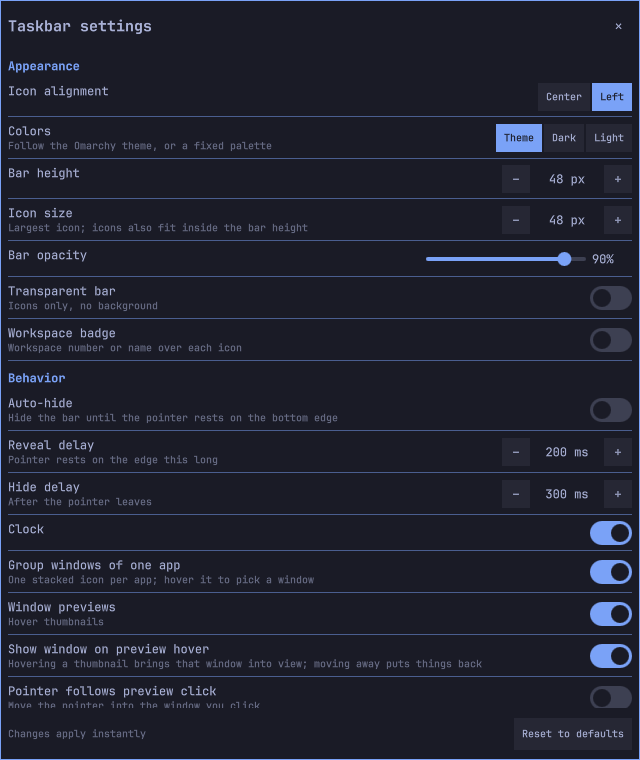
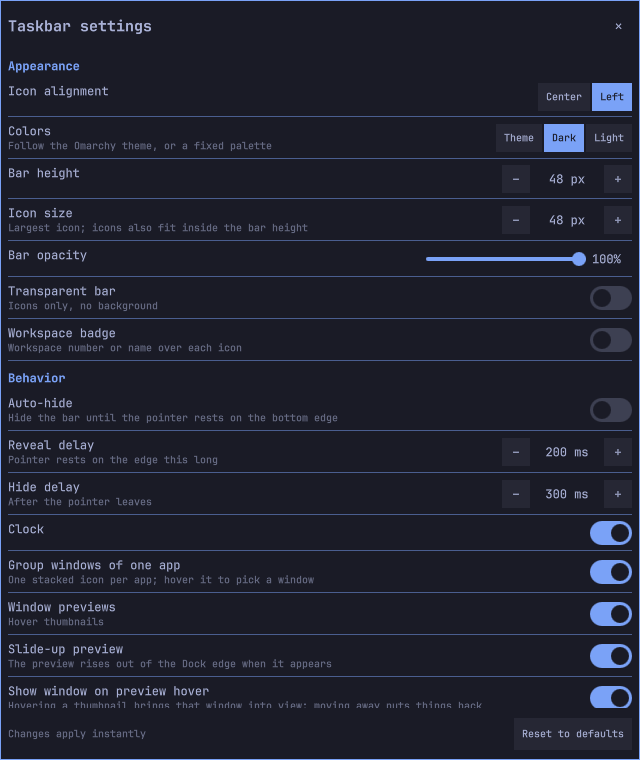
Slide the hover preview up out of the Dock edge, and drop it before a right-click menu
Right-clicking an icon dismisses its hover preview first. The preview rises
out of the Dock edge when it appears (previewSlide, on by default), and moving
to another icon closes the first preview before the next one slides up.

diff --git a/Service.qml b/Service.qml
@@ -1875,6 +1875,8 @@ Item {
                 onClicked: function (mouse) {
                   if (dockItem.wasDragged) return
                   if (mouse.button === Qt.RightButton) {
+                    // Drop any hover preview first, so the menu never shows over it.
+                    previewState.dismiss()
                     contextMenu.anchorItem = dockItem
                     contextMenu.menuItem = dockItem.modelData
                     contextMenu.visible = true
@@ -2084,8 +2086,8 @@ Item {
         onTriggered: previewState.apply(DockInteraction.previewLeaveFired(previewState.model))
       }
 
-      // Moving from one Item to its neighbour while a preview is up swaps
-      // the shown Window in place; the popup has to be re-anchored to follow.
+      // Keep the popup anchored if the hovered Item's position changes while
+      // it is up (e.g. the row reflows).
       Connections {
         target: previewState
         function onAnchorXChanged() {
@@ -2195,6 +2197,9 @@ Item {
 
         onVisibleChanged: {
           revealState.set("preview", previewPopup.visible)
+          previewSlideAnim.stop()
+          if (visible && root.taskbar.previewSlide) previewSlideAnim.start()
+          else slide = 1
           if (!previewPopup.visible) {
             previewPopup.peekTarget = null
             peekTimer.stop()
@@ -2220,145 +2225,166 @@ Item {
           }
         }
 
-        Rectangle {
+        // 0 → 1 as the popup slides up into place; snaps to 1 when off.
+        property real slide: 1
+        NumberAnimation {
+          id: previewSlideAnim
+          target: previewPopup
+          property: "slide"
+          from: 0
+          to: 1
+          duration: 220
+          easing.type: Easing.OutCubic
+        }
+
+        // Clips the card to the popup's own box, so it rises out from the
+        // Dock's edge instead of fading in mid-air.
+        Item {
           anchors.fill: parent
-          radius: Style.cornerRadius
-          color: root.colPopupBackground
-          border.width: Style.normalBorderWidth
-          border.color: root.colPopupBorder
+          clip: true
 
-          HoverHandler {
-            onHoveredChanged: previewState.popupHover(hovered)
-          }
+          Rectangle {
+            width: parent.width
+            height: parent.height
+            radius: Style.cornerRadius
+            color: root.colPopupBackground
+            border.width: Style.normalBorderWidth
+            border.color: root.colPopupBorder
+            y: (1 - previewPopup.slide) * height
 
-          Row {
-            id: previewRow
-            anchors.fill: parent
-            anchors.margins: Style.spacing.sm
-            spacing: Style.spacing.xs
+            HoverHandler {
+              onHoveredChanged: previewState.popupHover(hovered)
+            }
 
-            Repeater {
-              model: previewPopup.windowIds
+            Row {
+              id: previewRow
+              anchors.fill: parent
+              anchors.margins: Style.spacing.sm
+              spacing: Style.spacing.xs
 
-              // One Window's cell: a tinted background under the pointer, so
-              // it is clear which thumbnail a click will pick.
-              Item {
-                id: cell
-                required property var modelData
-                readonly property var win: previewPopup.windowFor(cell.modelData)
-                readonly property var toplevel: dockState.toplevelByAddress[cell.modelData] || null
-                readonly property int pad: Style.spacing.xs
-                implicitWidth: cellColumn.implicitWidth + pad * 2
-                implicitHeight: cellColumn.implicitHeight + pad * 2
+              Repeater {
+                model: previewPopup.windowIds
 
-                Rectangle {
-                  anchors.fill: parent
-                  radius: Style.cornerRadius
-                  color: cellHover.hovered ? Style.selectedFill : "transparent"
-                }
-
-                HoverHandler {
-                  id: cellHover
-                  onHoveredChanged: previewPopup.peekHover(cell.win, hovered)
-                }
-
-              Column {
-                id: cellColumn
-                x: cell.pad
-                y: cell.pad
-                spacing: Style.spacing.xs
-
-                Row {
-                  width: previewPopup.thumbWidth
-                  spacing: Style.spacing.xs
-
-                  Text {
-                    width: parent.width - closeButton.width - parent.spacing
-                    anchors.verticalCenter: parent.verticalCenter
-                    elide: Text.ElideRight
-                    color: previewPopup.textColor
-                    font.family: Style.font.family
-                    font.pixelSize: Style.font.caption
-                    text: dockState.titles[cell.modelData] || cell.win.title || cell.win.class || ""
-                  }
+                // One Window's cell: a tinted background under the pointer, so
+                // it is clear which thumbnail a click will pick.
+                Item {
+                  id: cell
+                  required property var modelData
+                  readonly property var win: previewPopup.windowFor(cell.modelData)
+                  readonly property var toplevel: dockState.toplevelByAddress[cell.modelData] || null
+                  readonly property int pad: Style.spacing.xs
+                  implicitWidth: cellColumn.implicitWidth + pad * 2
+                  implicitHeight: cellColumn.implicitHeight + pad * 2
 
                   Rectangle {
-                    id: closeButton
-                    width: Style.space(20)
-                    height: width
+                    anchors.fill: parent
                     radius: Style.cornerRadius
-                    color: closeMouse.containsMouse ? Util.alpha(Color.urgent, 0.5) : "transparent"
+                    color: cellHover.hovered ? Style.selectedFill : "transparent"
+                  }
+
+                  HoverHandler {
+                    id: cellHover
+                    onHoveredChanged: previewPopup.peekHover(cell.win, hovered)
+                  }
+
+                Column {
+                  id: cellColumn
+                  x: cell.pad
+                  y: cell.pad
+                  spacing: Style.spacing.xs
+
+                  Row {
+                    width: previewPopup.thumbWidth
+                    spacing: Style.spacing.xs
 
                     Text {
-                      anchors.centerIn: parent
-                      text: "\u2715"
+                      width: parent.width - closeButton.width - parent.spacing
+                      anchors.verticalCenter: parent.verticalCenter
+                      elide: Text.ElideRight
                       color: previewPopup.textColor
+                      font.family: Style.font.family
                       font.pixelSize: Style.font.caption
+                      text: dockState.titles[cell.modelData] || cell.win.title || cell.win.class || ""
+                    }
+
+                    Rectangle {
+                      id: closeButton
+                      width: Style.space(20)
+                      height: width
+                      radius: Style.cornerRadius
+                      color: closeMouse.containsMouse ? Util.alpha(Color.urgent, 0.5) : "transparent"
+
+                      Text {
+                        anchors.centerIn: parent
+                        text: "\u2715"
+                        color: previewPopup.textColor
+                        font.pixelSize: Style.font.caption
+                      }
+
+                      MouseArea {
+                        id: closeMouse
+                        anchors.fill: parent
+                        hoverEnabled: true
+                        cursorShape: Qt.PointingHandCursor
+                        onClicked: {
+                          // The last Window closing takes the popup with it
+                          // (liveItem goes null); otherwise it stays up so
+                          // the rest can still be picked.
+                          previewPopup.closePicked(cell.win)
+                        }
+                      }
+                    }
+                  }
+
+                  // The thumbnail: a fixed-size box (so a Window that resizes or
+                  // changes shape never resizes the popup), holding a live capture
+                  // scaled to the Window's own aspect ratio. Live capture can
+                  // blank for a frame when the Window's content changes a lot (a
+                  // busy browser); the ShaderEffectSource underneath keeps the
+                  // last frame the capture actually had, so that frame shows
+                  // through instead of a flicker. Left-clicking the thumbnail
+                  // focuses the Window, like its Item. In a group, the Active
+                  // Window's thumbnail is outlined.
+                  Item {
+                    width: previewPopup.thumbWidth
+                    height: previewPopup.thumbHeight
+
+                    ShaderEffectSource {
+                      anchors.centerIn: parent
+                      width: capture.width
+                      height: capture.height
+                      sourceItem: capture
+                      live: capture.hasContent
+                      hideSource: false
+                    }
+
+                    ScreencopyView {
+                      id: capture
+                      anchors.centerIn: parent
+                      constraintSize: Qt.size(previewPopup.thumbWidth, previewPopup.thumbHeight)
+                      captureSource: previewPopup.visible ? cell.toplevel && cell.toplevel.wayland : null
+                      live: true
+                    }
+
+                    Rectangle {
+                      visible: previewPopup.windowIds.length > 1 && !!cell.win.active
+                      anchors.fill: parent
+                      color: "transparent"
+                      radius: Style.cornerRadius
+                      border.width: Style.selectedBorderWidth
+                      border.color: previewPopup.accentColor
                     }
 
                     MouseArea {
-                      id: closeMouse
                       anchors.fill: parent
-                      hoverEnabled: true
                       cursorShape: Qt.PointingHandCursor
                       onClicked: {
-                        // The last Window closing takes the popup with it
-                        // (liveItem goes null); otherwise it stays up so
-                        // the rest can still be picked.
-                        previewPopup.closePicked(cell.win)
+                        previewPopup.focusPicked(cell.win)
                       }
                     }
                   }
                 }
-
-                // The thumbnail: a fixed-size box (so a Window that resizes or
-                // changes shape never resizes the popup), holding a live capture
-                // scaled to the Window's own aspect ratio. Live capture can
-                // blank for a frame when the Window's content changes a lot (a
-                // busy browser); the ShaderEffectSource underneath keeps the
-                // last frame the capture actually had, so that frame shows
-                // through instead of a flicker. Left-clicking the thumbnail
-                // focuses the Window, like its Item. In a group, the Active
-                // Window's thumbnail is outlined.
-                Item {
-                  width: previewPopup.thumbWidth
-                  height: previewPopup.thumbHeight
-
-                  ShaderEffectSource {
-                    anchors.centerIn: parent
-                    width: capture.width
-                    height: capture.height
-                    sourceItem: capture
-                    live: capture.hasContent
-                    hideSource: false
-                  }
-
-                  ScreencopyView {
-                    id: capture
-                    anchors.centerIn: parent
-                    constraintSize: Qt.size(previewPopup.thumbWidth, previewPopup.thumbHeight)
-                    captureSource: previewPopup.visible ? cell.toplevel && cell.toplevel.wayland : null
-                    live: true
-                  }
-
-                  Rectangle {
-                    visible: previewPopup.windowIds.length > 1 && !!cell.win.active
-                    anchors.fill: parent
-                    color: "transparent"
-                    radius: Style.cornerRadius
-                    border.width: Style.selectedBorderWidth
-                    border.color: previewPopup.accentColor
-                  }
-
-                  MouseArea {
-                    anchors.fill: parent
-                    cursorShape: Qt.PointingHandCursor
-                    onClicked: {
-                      previewPopup.focusPicked(cell.win)
-                    }
-                  }
                 }
-              }
               }
             }
           }

diff --git a/DockConfig.js b/DockConfig.js
@@ -135,6 +135,7 @@ function effectiveTaskbar(entry) {
     showPreviews: booleanOr(source.showPreviews, true),
     previewWarpPointer: booleanOr(source.previewWarpPointer, true),
     previewPeek: booleanOr(source.previewPeek, true),
+    previewSlide: booleanOr(source.previewSlide, true),
     showWorkspaceBadge: booleanOr(source.showWorkspaceBadge, false),
     groupWindows: booleanOr(source.groupWindows, true),
     startHoverOpen: booleanOr(source.startHoverOpen, false),
@@ -280,6 +281,7 @@ function settingsSchema() {
         { key: "showClock", label: "Clock", type: "bool" },
         { key: "groupWindows", label: "Group windows of one app", type: "bool", hint: "One stacked icon per app; hover it to pick a window" },
         { key: "showPreviews", label: "Window previews", type: "bool", hint: "Hover thumbnails" },
+        { key: "previewSlide", label: "Slide-up preview", type: "bool", hint: "The preview rises out of the Dock edge when it appears" },
         { key: "previewPeek", label: "Show window on preview hover", type: "bool", hint: "Hovering a thumbnail brings that window into view; moving away puts things back" },
         { key: "previewWarpPointer", label: "Pointer follows preview click", type: "bool", hint: "Move the pointer into the window you click" },
       ],

diff --git a/DockInteraction.js b/DockInteraction.js
@@ -60,8 +60,8 @@ function hideTimerFired(state) {
 //
 // `hovered` is the Item under the pointer, `shown` the one the popup is up
 // for (null while closed). The popup opens after the open delay, closes after
-// the leave delay, and moving to a neighbouring Item while it is up swaps the
-// shown Item in place.
+// the leave delay, and moving to a neighbouring Item while it is up closes it
+// at once and opens that Item's after the open delay.
 
 function initialPreview() {
   return { hovered: null, shown: null };
@@ -71,7 +71,9 @@ function initialPreview() {
 // (previews on, a Window Item); `dragging` suppresses it during a drag.
 function previewHoverStart(state, item, enabled, dragging) {
   if (dragging || !enabled) return { state: state, timers: {} };
-  if (state.shown) return { state: { hovered: item, shown: item }, timers: { leave: "stop" } };
+  // Hovering the shown Item again keeps it; any other Item closes the popup
+  // first, so its own opens afresh (and slides up) after the open delay.
+  if (state.shown && state.shown.key === item.key) return { state: { hovered: item, shown: item }, timers: { leave: "stop" } };
   return { state: { hovered: item, shown: null }, timers: { leave: "stop", open: "start" } };
 }
 

diff --git a/test/dockInteraction.test.js b/test/dockInteraction.test.js
@@ -61,10 +61,19 @@ test("a preview opens after the open delay, not before", () => {
   assert.equal(DI.previewOpenFired(r.state).state.shown, a);
 });
 
-test("moving to a neighbour while shown swaps in place with no open delay", () => {
+test("moving to a neighbour while shown closes it and opens the neighbour's after the open delay", () => {
   let s = DI.previewOpenFired(DI.previewHoverStart(DI.initialPreview(), a, true, false).state).state;
   const r = DI.previewHoverStart(s, b, true, false);
-  assert.equal(r.state.shown, b);
+  assert.equal(r.state.shown, null);
+  assert.equal(r.state.hovered, b);
+  assert.deepEqual(r.timers, { leave: "stop", open: "start" });
+  assert.equal(DI.previewOpenFired(r.state).state.shown, b);
+});
+
+test("re-entering the shown Item keeps its preview up", () => {
+  const s = DI.previewOpenFired(DI.previewHoverStart(DI.initialPreview(), a, true, false).state).state;
+  const r = DI.previewHoverStart(s, a, true, false);
+  assert.equal(r.state.shown, a);
   assert.deepEqual(r.timers, { leave: "stop" });
 });
 

diff --git a/test/taskbarConfig.test.js b/test/taskbarConfig.test.js
@@ -39,6 +39,7 @@ test("bar defaults: always visible, left-aligned, theme colours, built-in Start 
     showPreviews: true,
     previewWarpPointer: true,
     previewPeek: true,
+    previewSlide: true,
     showWorkspaceBadge: false,
     groupWindows: true,
     startHoverOpen: false,

diff --git a/docs/SPEC.md b/docs/SPEC.md
@@ -19,6 +19,7 @@ What StartBar does today. Vocabulary is defined in [CONTEXT.md](../CONTEXT.md); 
 - Ordering: Launch Order, with a new Window joining the Window Items of its own App. Any Item may be dragged to a Placed position; a Placed Pin keeps it permanently, a Placed Window Item until the Window closes. Dragging one Window of a pinned App moves only that Window.
 - Indicators: a small pill under every Window Item, wide and accent-coloured for the Active Window, which is also highlighted; a workspace badge on every Window Item when `showWorkspaceBadge` is on (default off); an urgent-colour tint for Attention. No magnification.
 - Previews (`showPreviews`, on): hovering a Window Item shows its Preview, a live thumbnail with the title and a close button. The thumbnail keeps the Window's own aspect ratio inside a fixed-size box and holds its last good frame if the live capture blanks. A Pin without Windows shows a tooltip with the App's name instead. With previews off, a Window Item shows a tooltip with its title and workspace.
+- Slide (`previewSlide`, true): the Preview rises out of the Dock edge (clipped by its own box) over ~200ms when it appears; closing it is instant, and moving to a neighbouring Item closes it at once and slides that Item's up after the open delay.
 - Peek (`previewPeek`, true; added 2026-10-10): hovering a thumbnail for 150ms shows that Window by focusing it, as Windows' Aero Peek does: its workspace comes into view, and a maximized or full-screen Window covering it on that workspace is un-maximized for the peek. Moving to another thumbnail first undoes the previous peek, then applies the new one. Leaving the thumbnails (200ms) or closing the popup restores the focused Window, each monitor's workspace and the maximized state; a click on the thumbnail keeps the Window focused instead. State is saved in `$XDG_RUNTIME_DIR/startbar-peek` and any leftover is restored when the shell starts. Hyprland cannot unset a window's opacity, so the peek focuses rather than fading other windows.
 - Overflow: icons shrink until every Item fits the monitor width.
 - Colours and fonts come from the current Omarchy theme and follow theme switches live, unless a fixed palette is chosen (see "The bar").

diff --git a/docs/SETTINGS.md b/docs/SETTINGS.md
@@ -42,6 +42,7 @@ The Dock is a Windows 11-style bar along the bottom edge of every monitor.
 | `startIcon` | `grid` | `grid` (drawn in QML), `omarchy`, `arch`, `linux`, an icon-theme name, or an absolute image path |
 | `showClock` | `false` | Clock at the right end |
 | `showPreviews` | `true` | Hover thumbnails with a close button |
+| `previewSlide` | `true` | The hover preview rises out of the Dock edge when it appears; it still disappears at once |
 | `previewPeek` | `true` | Hovering a preview thumbnail focuses that window to show it (switching workspace if needed); a maximized or full-screen window covering it is un-maximized for the peek; moving away restores the focus, workspaces and maximized state; clicking keeps it |
 | `previewWarpPointer` | `true` | Clicking a preview also moves the pointer to the middle of that window |
 
